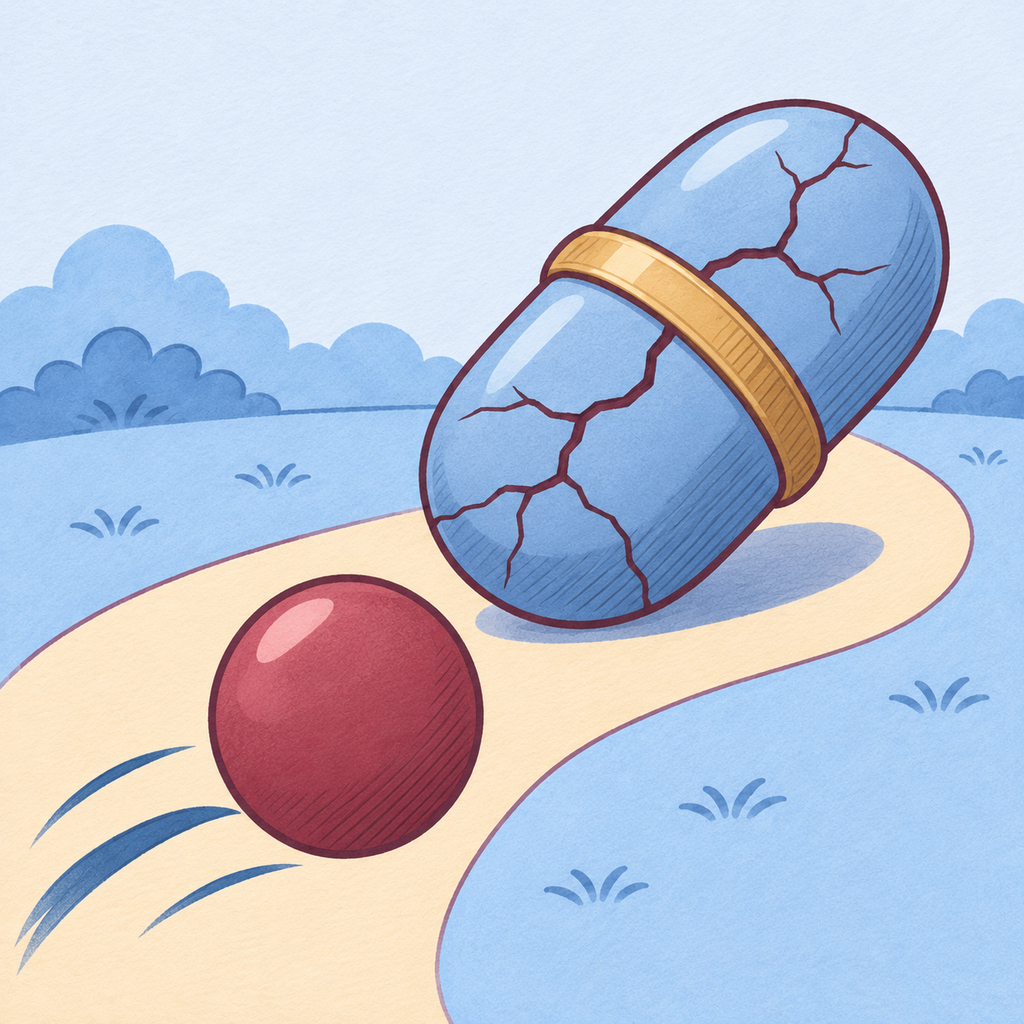
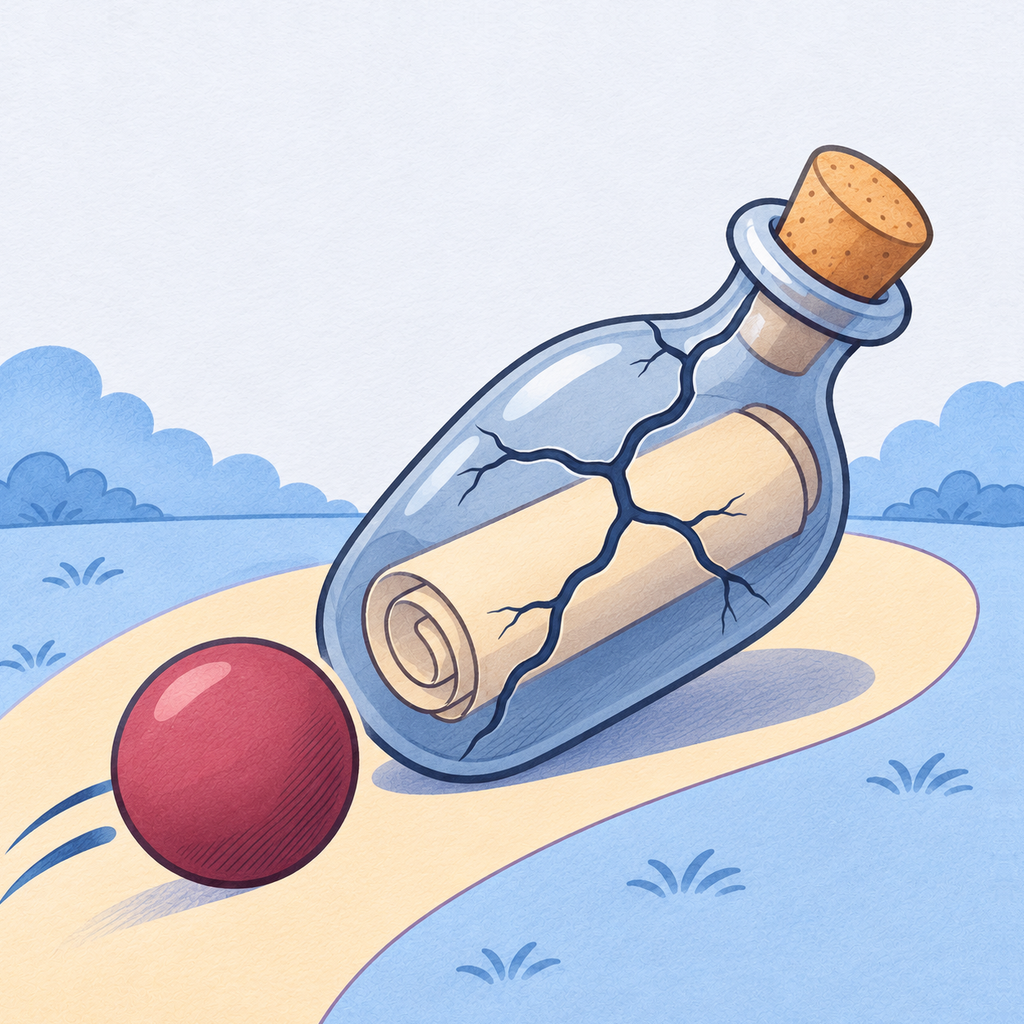
Use the cracked bottle for catch quest art

diff --git a/AGENTS.md b/AGENTS.md
@@ -83,6 +83,7 @@ A mobile-first web app for sending someone a sealed **capsule** that can only be
 - To run the production web app locally: `cd mobile && npm install && npm run web` → http://localhost:8088. Legal pages are also copied by `npx expo export --platform web`.
 
 ## Decisions log
+- 2026-11-18: Roy approved the Landmark tower at `716ecf9` and chose the app’s corked message-in-a-bottle vessel for catch. The catch redraw shows darkened glass, a visible letter, Crack A-style fractures and an incoming red wax ball. The approved artwork is preserved. Draft PR #153 awaits Roy’s whole-set approval.
 - 2026-11-18: Roy approved the arrive flag and footsteps redraw and all three faceted quest pin frames at `a42def4`. All approved masters, exports, window and tip are preserved. Catch and landmark complete the set in draft PR #153, awaiting Roy’s approval before ready status, green CI and owner-account squash merge.
 - 2026-11-18: Roy chose a faceted 3D quest pin frame matching the Waypost gem, recolored blue, brass and muted spun-gem plum from one shape. Quest-type art is composed for the round window. The quest card banner shows the place photo, and the app draws the tick and order number. Question and price are approved. Draft PR #153 awaits Roy’s approval of the revised arrive and the frame before catch and landmark.
 - 2026-11-18 (later): Roy approved the hunt-loop direction after trying the demo and asked to build it in parallel waves (work list in `docs/design/hunt-loop.md`). The blue gem means only a common Waypost (Spin + capsule rack). Every quest uses the same quest pin, blue for ours and brass for a person's, with a picture inside showing what the quest does (no corner badge; Codex draws the five pictures in the quest-template style). The five quest types are arrive, question, price, catch and landmark (within 2 km of a Landmark); spin is retired as a quest type. Routes to friends and Memory Routes reuse the private-hunt quest editor. Today's Hunt gets game-like motion (pins drop in, the figure hops along a self-drawing trail, cards flip up, points fly to the score, a stamp lands) with a Speed up button and Reduce Motion support. Unlimited copies is a per-vessel admin switch, on for starters and earned Landmark vessels.

diff --git a/design/art/README.md b/design/art/README.md
@@ -653,7 +653,7 @@ The wax-red canopy and upper bow swing rearward. The pleats gather, then the sta
 | `quest-types/quest-type-arrive.png` | 1024×1024 | Opaque arrive quest picture for a 46 px circular pin. |
 | `quest-types/quest-type-question.png` | 1024×1024 | Opaque question quest picture for a 46 px circular pin. |
 | `quest-types/quest-type-price.png` | 1024×1024 | Opaque price quest picture for a 46 px circular pin. |
-| `quest-types/quest-type-catch.png` | 1024×1024 | Cracked capsule with an incoming red wax ball. |
+| `quest-types/quest-type-catch.png` | 1024×1024 | Cracked message-in-a-bottle vessel with a visible rolled letter and an incoming red wax ball. |
 | `quest-types/quest-type-landmark.png` | 1024×1024 | Fictional toy tower with a wax seal. |
 
 Roy approved question and price on 2026-11-18, then approved the revised arrive picture and the frame colors at `a42def4`. Quest-type pictures fill the circular pin window. Quest card banners show the place photo.
@@ -666,4 +666,4 @@ Roy approved question and price on 2026-11-18, then approved the revised arrive 
 
 All three frames come from one faceted source with one alpha mask. On the master canvas, the transparent circular window is centered at (506, 399) with radius 237 px. The tip anchor is (506, 955). The same values are in each manifest entry. The frames have a light rim. The app supplies the done tick and order number.
 
-[Pin review at 46 px and 138 px](_checks/quest-types-review.png) · [Asset audit](_checks/quest-types-assets.json) · [Contact sheet](_checks/contact-sheet.png). The complete set is in draft PR #153 for Roy’s approval.
+[Pin review at 46 px and 138 px](_checks/quest-types-review.png) · [Asset audit](_checks/quest-types-assets.json) · [Contact sheet](_checks/contact-sheet.png). Roy approved landmark at `716ecf9`. Draft PR #153 shows the revised catch picture for the final set review.
